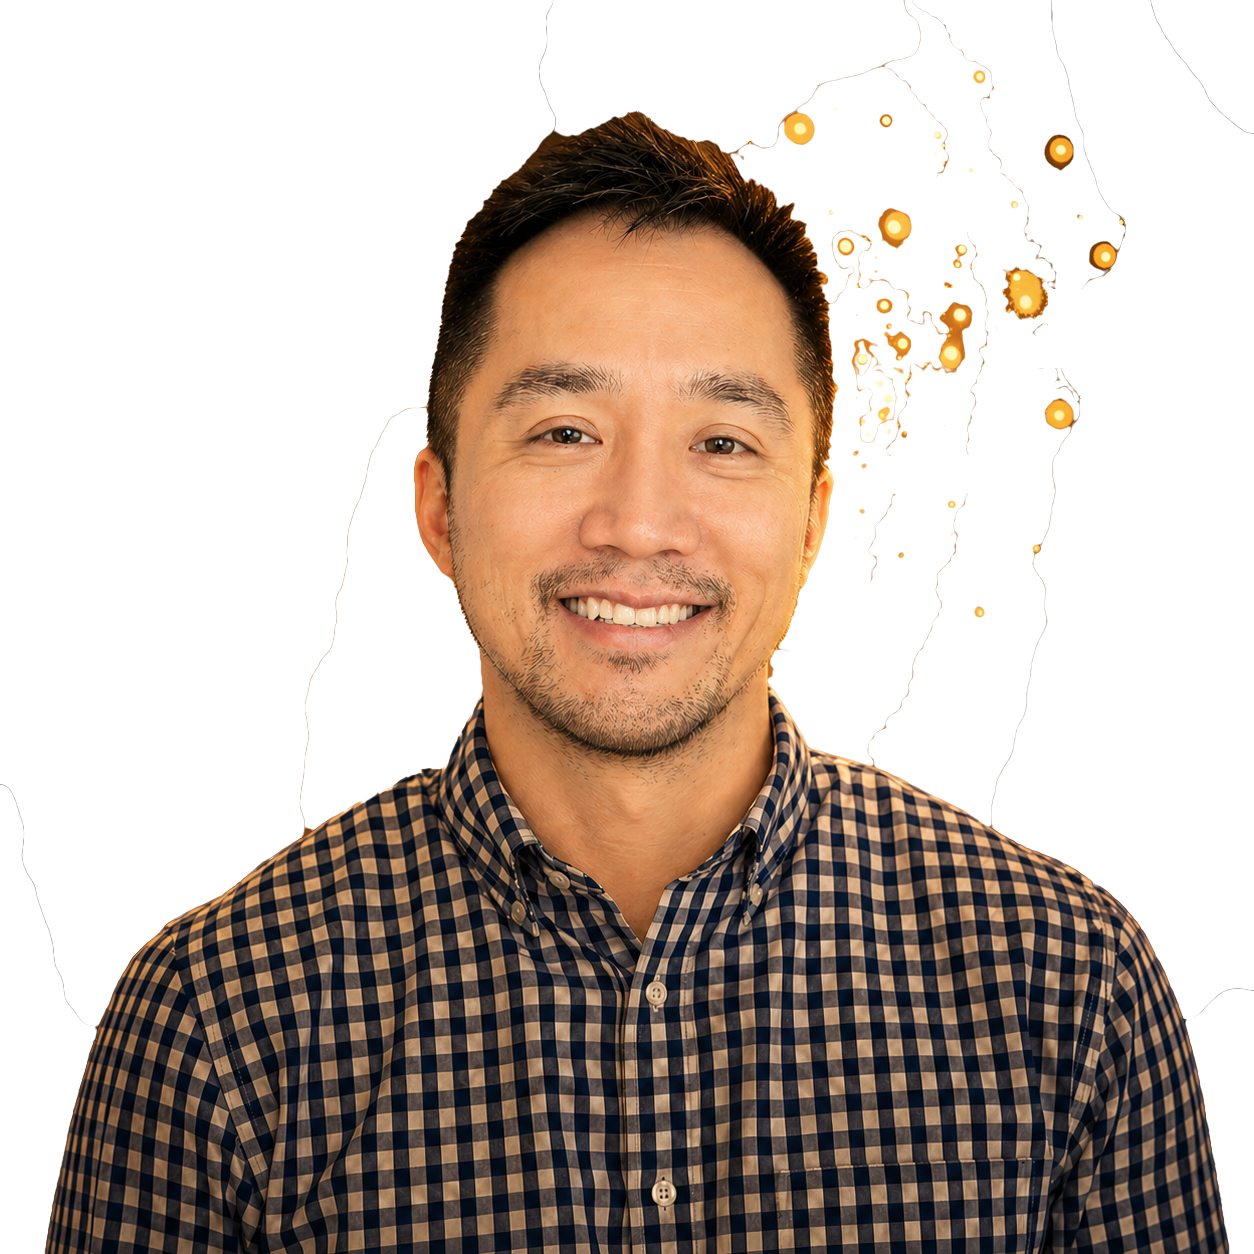
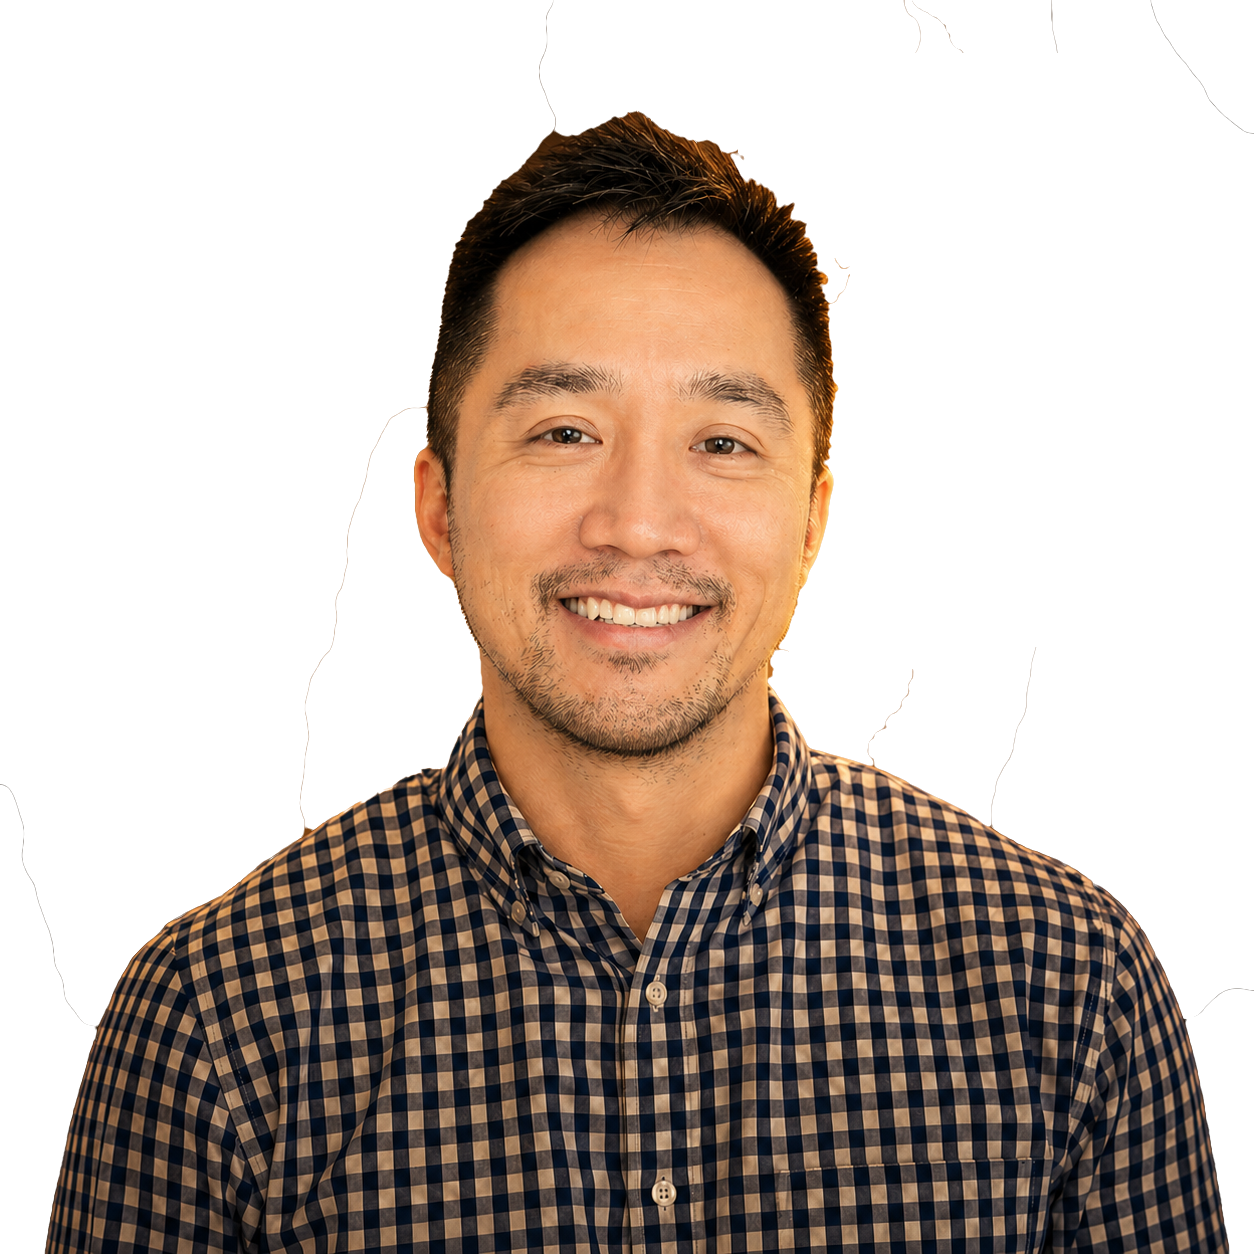
Update hero image and center portrait alignment
- Refreshed hero-figure-v12.png with updated photo
- Changed container alignment from flex-end to center so portrait sits mid-hero alongside text
- Reduced image width to 85% and capped height at 80% for proportional fit
- Added subtle border-radius on image
- Tightened portrait mobile hero height from 62vh to 50vh

diff --git a/index.html b/index.html
@@ -140,7 +140,7 @@ a.link:hover { border-bottom-color: var(--ink); }
   }
   .hero-grid .eyebrow { justify-content: center !important; }
   .hero-grid > div:first-child > div:last-child { justify-content: center !important; }
-  .hero-figure { height: 62vh !important; min-height: unset !important; }
+  .hero-figure { height: 50vh !important; min-height: unset !important; }
   #about { padding-top: 80px !important; }
   #about h2 { font-size: clamp(30px, 8.5vw, 52px) !important; }
   .resume-grid { grid-template-columns: 1fr !important; gap: 4px !important; padding: 20px 0 !important; }
@@ -1260,15 +1260,15 @@ function VariantA({ accent = '#ffa45a' }) {
             </div>
           </div>
 
-          <div className="hero-figure" style={{ position: 'relative', height: '90vh', minHeight: 620, display: 'flex', alignItems: 'flex-end', justifyContent: 'center', overflow: 'visible' }}>
-            <div style={{ position: 'relative', width: '100%', maxWidth: 720, height: '100%', display: 'flex', alignItems: 'flex-end', justifyContent: 'center' }}>
+          <div className="hero-figure" style={{ position: 'relative', height: '90vh', minHeight: 620, display: 'flex', alignItems: 'center', justifyContent: 'center', overflow: 'visible' }}>
+            <div style={{ position: 'relative', width: '100%', maxWidth: 640, height: '100%', display: 'flex', alignItems: 'center', justifyContent: 'center' }}>
               <div aria-hidden style={{
-                position: 'absolute', left: 0, right: 0, top: '8%', height: '38%', pointerEvents: 'none', zIndex: 0,
-                background: `radial-gradient(ellipse 55% 60% at 55% 25%, ${accent}40 0%, transparent 65%)`,
+                position: 'absolute', left: 0, right: 0, top: '15%', height: '55%', pointerEvents: 'none', zIndex: 0,
+                background: `radial-gradient(ellipse 60% 60% at 55% 45%, ${accent}38 0%, transparent 65%)`,
                 filter: 'blur(40px)',
               }} />
               <img ref={heroImgRef} src="assets/hero-figure-v12.png" alt="Rich Dang"
-                style={{ position: 'relative', zIndex: 1, width: '100%', height: 'auto', maxHeight: '100%', objectFit: 'contain', objectPosition: 'bottom' }} />
+                style={{ position: 'relative', zIndex: 1, width: '85%', height: 'auto', maxHeight: '80%', objectFit: 'contain', objectPosition: 'center', borderRadius: 24 }} />
               <Sparkles anchorRef={heroImgRef}
                 region={{ left: 0, top: 0, right: 1, bottom: 0.45 }}
                 excludeRegion={{ left: 0, top: 0.18, right: 0.55, bottom: 0.50 }}
